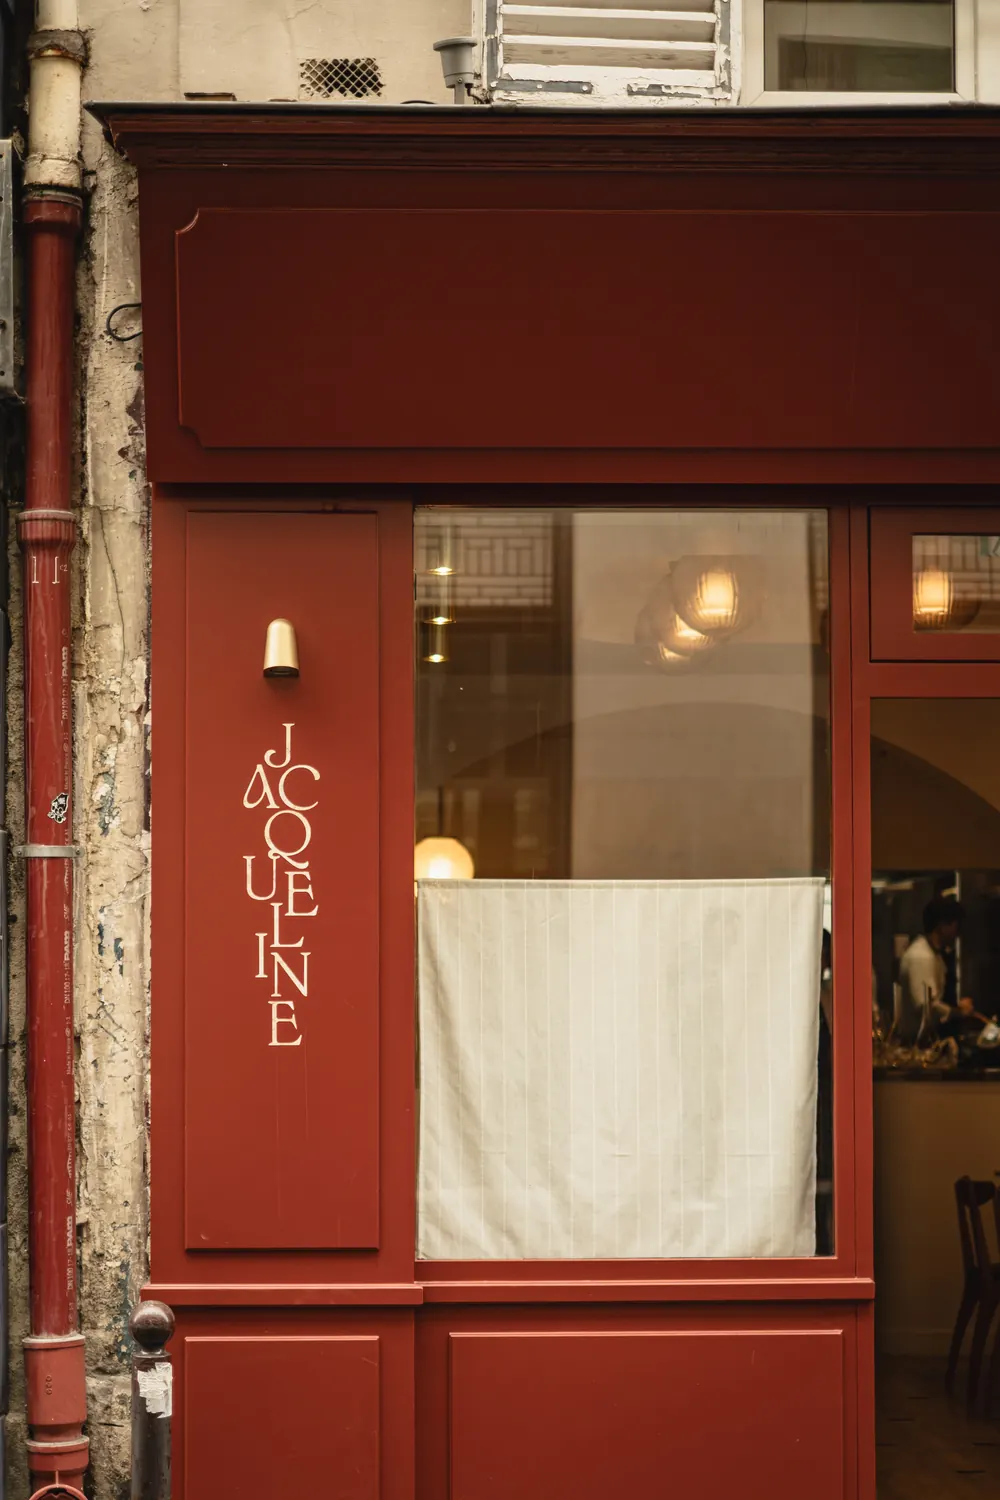
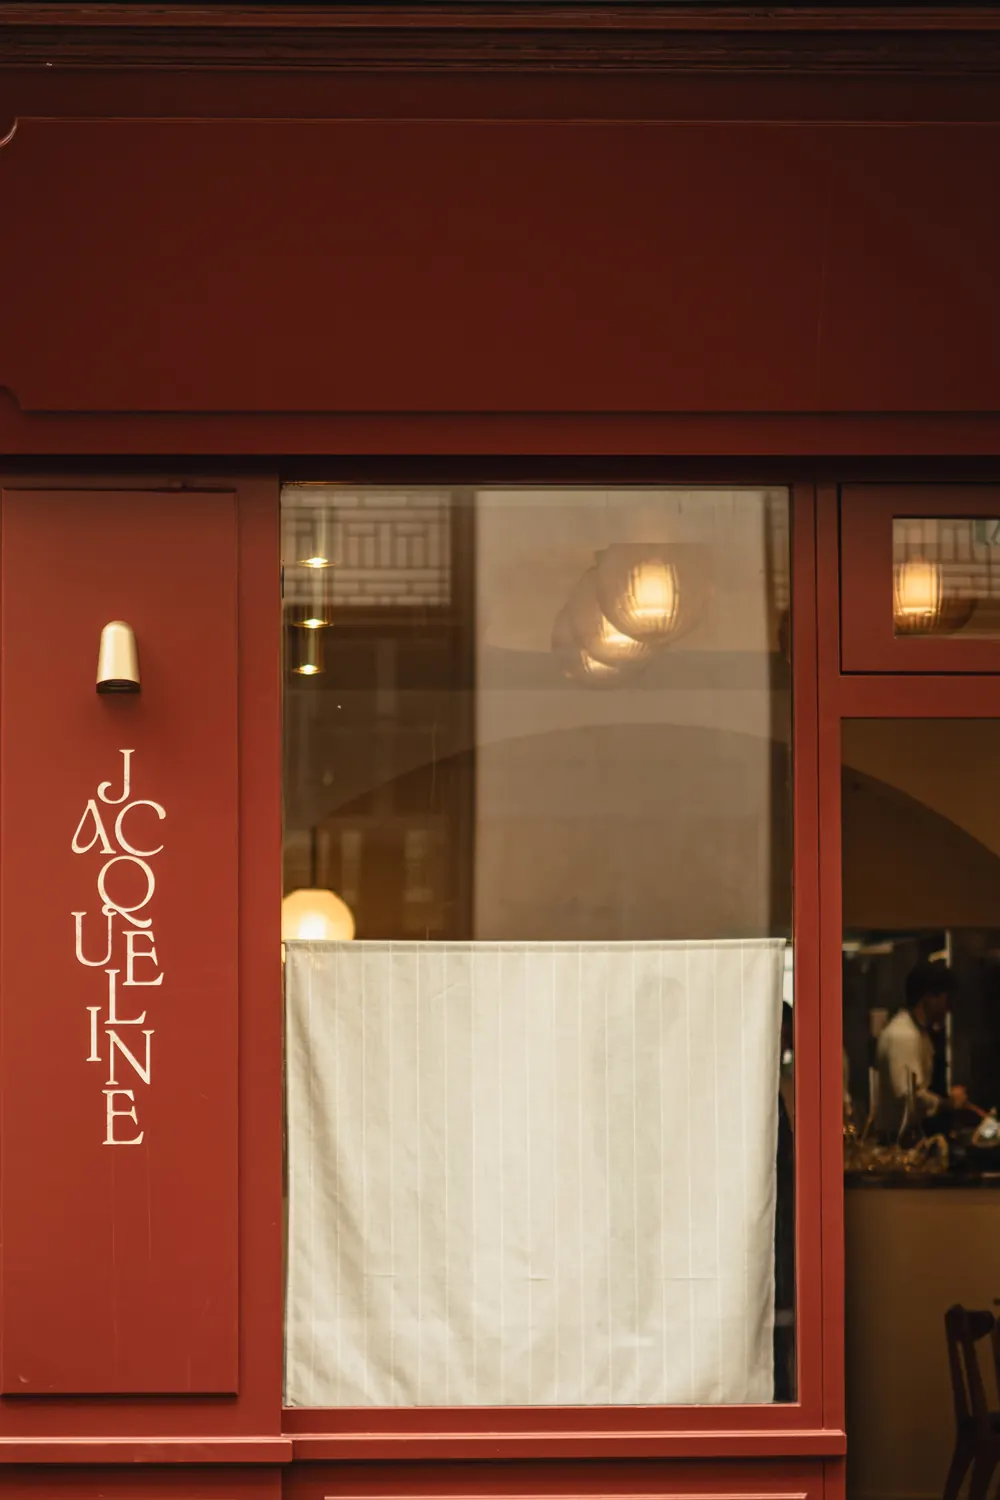
Site v2 : carrousel photos sans titre ni numérotation, façade recadrée
- plus de titre « En images / De la cuisine à la rue » : les photos parlent
  seules ;
- plus de compteur 01 / 08 : seulement la fine barre de progression, avec
  les flèches à côté sur ordinateur ;
- la façade est recadrée sur la devanture rouge, sans le mur abîmé ni la
  gouttière sur le côté.

Claude-Session: https://claude.ai/code/session_01KVKFbMaaYt7B8BDn1iBVRt

diff --git a/jacqueline-site-v2/index.html b/jacqueline-site-v2/index.html
@@ -481,7 +481,9 @@
   .seq-track:has(.gal-card){gap:clamp(1rem, 2.4vw, 2rem);}
   .gal-card{flex:none;scroll-snap-align:start;height:min(68vh, 40rem);margin:0;}
   .gal-card img{display:block;}
-  @media (max-width: 760px){ .gal-card{height:min(62svh, 30rem);} }
+  .gal-foot{display:flex;align-items:center;gap:1.5rem;margin:2.2rem var(--gutter) 0;}
+  .gal-foot .seq-progress{flex:1;margin:0;}
+  @media (max-width: 760px){ .gal-card{height:min(62svh, 30rem);} .gal-foot .seq-nav{display:none;} }
 
   /* ============ LA MAISON ============ */
   .maison-grid{display:grid;grid-template-columns:minmax(0,1fr) minmax(0,1fr);gap:clamp(.9rem, 1.8vw, 1.6rem);margin-top:3.2rem;}
@@ -850,18 +852,7 @@
   </section>
 
   <!-- FILM -->
-  <section class="seq gal" id="galerie" aria-label="En images">
-    <div class="seq-head">
-      <div>
-        <span class="label eyebrow">En images</span>
-        <h2 class="h2">De la cuisine à la rue</h2>
-      </div>
-      <div class="seq-nav">
-        <button type="button" class="seq-arrow" data-dir="-1" aria-label="Photo précédente"><svg viewBox="0 0 24 24" fill="none" stroke="currentColor" stroke-width="1.2"><path d="M15 5l-7 7 7 7"/></svg></button>
-        <span class="seq-count label">01 / 08</span>
-        <button type="button" class="seq-arrow" data-dir="1" aria-label="Photo suivante"><svg viewBox="0 0 24 24" fill="none" stroke="currentColor" stroke-width="1.2"><path d="M9 5l7 7-7 7"/></svg></button>
-      </div>
-    </div>
+  <section class="seq gal" id="galerie" aria-label="Photographies">
     <div class="seq-track" tabindex="0" aria-label="Faire défiler les photos">
       <figure class="gal-card ph" data-ink="photo" data-src="assets/img/galerie-01.webp" data-paper="239,233,223" data-once style="aspect-ratio:1000 / 1500"><picture><source srcset="assets/img/galerie-01.webp" type="image/webp"><img src="assets/img/galerie-01.jpg" alt="La façade bordeaux de Jacqueline, depuis la rue de la Victoire" loading="lazy" width="1000" height="1500"></picture></figure>
       <figure class="gal-card ph" data-ink="photo" data-src="assets/img/galerie-02.webp" data-paper="239,233,223" data-once style="aspect-ratio:1000 / 1500"><picture><source srcset="assets/img/galerie-02.webp" type="image/webp"><img src="assets/img/galerie-02.jpg" alt="Huître, herbes fraîches" loading="lazy" width="1000" height="1500"></picture></figure>
@@ -872,7 +863,13 @@
       <figure class="gal-card ph" data-ink="photo" data-src="assets/img/galerie-07.webp" data-paper="239,233,223" data-once style="aspect-ratio:1442 / 1500"><picture><source srcset="assets/img/galerie-07.webp" type="image/webp"><img src="assets/img/galerie-07.jpg" alt="Dessert au chocolat et céréales soufflées" loading="lazy" width="1442" height="1500"></picture></figure>
       <figure class="gal-card ph" data-ink="photo" data-src="assets/img/galerie-08.webp" data-paper="239,233,223" data-once style="aspect-ratio:1000 / 1500"><picture><source srcset="assets/img/galerie-08.webp" type="image/webp"><img src="assets/img/galerie-08.jpg" alt="La salle et ses globes de verre" loading="lazy" width="1000" height="1500"></picture></figure>
     </div>
-    <div class="seq-progress" aria-hidden="true"><i></i></div>
+    <div class="gal-foot">
+      <div class="seq-progress" aria-hidden="true"><i></i></div>
+      <div class="seq-nav">
+        <button type="button" class="seq-arrow" data-dir="-1" aria-label="Photo précédente"><svg viewBox="0 0 24 24" fill="none" stroke="currentColor" stroke-width="1.2"><path d="M15 5l-7 7 7 7"/></svg></button>
+        <button type="button" class="seq-arrow" data-dir="1" aria-label="Photo suivante"><svg viewBox="0 0 24 24" fill="none" stroke="currentColor" stroke-width="1.2"><path d="M9 5l7 7-7 7"/></svg></button>
+      </div>
+    </div>
   </section>
 
   <!-- LA MAISON -->
@@ -1433,7 +1430,7 @@
     const p = max > 0 ? track.scrollLeft / max : 0;
     bar.style.width = (Math.max(.08, p) * 100).toFixed(1) + "%";
     const i = track.scrollLeft > max - 4 ? cards.length - 1 : at();
-    count.textContent = String(i + 1).padStart(2, "0") + " / " + String(cards.length).padStart(2, "0");
+    if(count) count.textContent = String(i + 1).padStart(2, "0") + " / " + String(cards.length).padStart(2, "0");
     arrows[0].disabled = track.scrollLeft < 4;
     arrows[1].disabled = track.scrollLeft > max - 4;
   }
